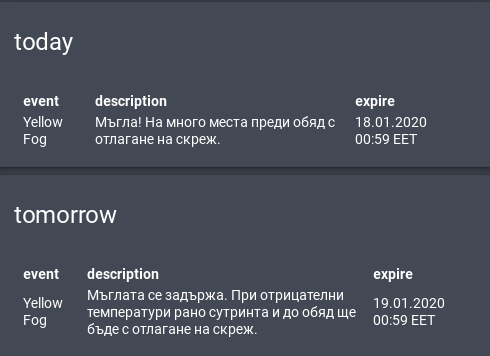
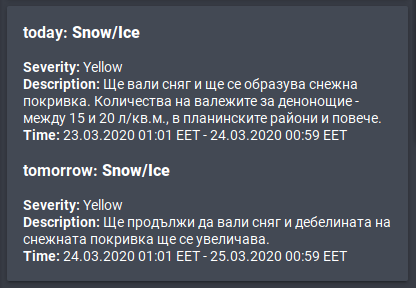
markdown card alert

diff --git a/README.md b/README.md
@@ -41,7 +41,7 @@ automation:
             {% endif %}
 ```
 ![Screenshot](https://github.com/kodi1/meteoalarm/blob/master/images/notification.png?raw=true)
-## lovlace alert - Flex Table Card
+## lovlace alert - Markdown Card
 ```yaml
 cards:
   - type: conditional
@@ -49,40 +49,21 @@ cards:
       - entity: sensor.w_alert
         state_not: '0'
     card:
-      type: custom:flex-table-card
-      title: today
-      entities:
-        include: sensor.w_alert
-      columns:
-        - attr_as_list: today
-          modify: x.code.concat(' ', x.event)
-          name: event
-        - attr_as_list: today
-          modify: x.txt
-          name: description
-        - attr_as_list: today
-          modify: x.end
-          name: expire
-
-  - type: conditional
-    conditions:
-      - entity: sensor.w_alert
-        state_not: '0'
-    card:
-      type: custom:flex-table-card
-      title: tomorrow
-      entities:
-        include: sensor.w_alert
-      columns:
-        - attr_as_list: tomorrow
-          modify: x.code.concat(' ', x.event)
-          name: event
-        - attr_as_list: tomorrow
-          modify: x.txt
-          name: description
-        - attr_as_list: tomorrow
-          modify: x.end
-          name: expire
+      type: markdown
+      content: >-
+        {%- if not is_state('sensor.w_alert', '0') -%}
+          {%- for s  in ['today', 'tomorrow'] -%}
+            {%- set v = state_attr('sensor.w_alert', s) -%}
+              {%- if v -%}
+                {%- for d  in v %}
+          ### {{s}}: **{{d['event']}}**
+          **Severity:** {{d['code']}}
+          **Description:** {{d['txt']}}
+          **Time:** {{d['start']}} - {{d['end']}}
+                {%- endfor -%}
+              {%- endif -%}
+          {%- endfor -%}
+        {%- endif -%}
 ```
 ![Screenshot](https://github.com/kodi1/meteoalarm/blob/master/images/alert.png?raw=true)
 
